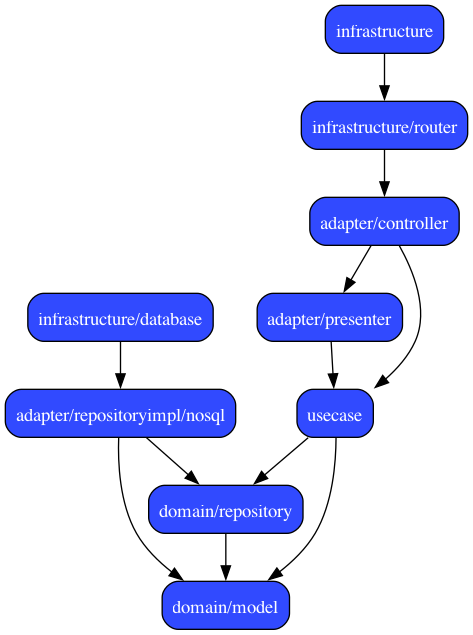
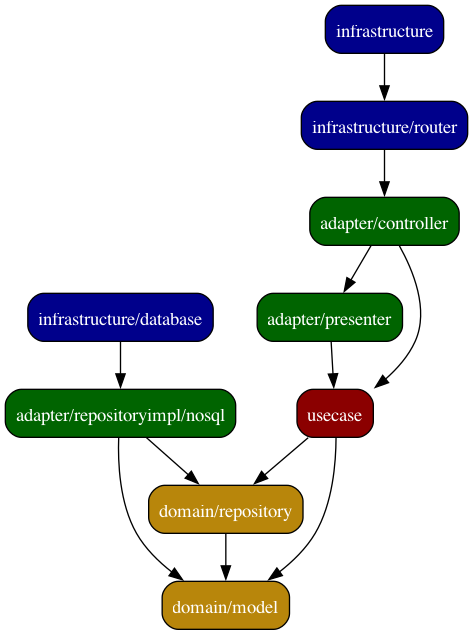
chore: 依存関係グラフがレイヤによって色分けされるように

diff --git a/scripts/color_dot_graph.py b/scripts/color_dot_graph.py
@@ -1,0 +1,58 @@
+import re
+import sys
+
+COLORS = [
+    # adapter
+    'darkgreen',
+    # domain
+    'darkgoldenrod',
+    # infrastructure
+    'darkblue',
+    # usecase
+    'darkred',
+    # others
+    'darkorange',
+    'mediumvioletred',
+    'dimgray',
+    'ind',
+    'darkcyan',
+    'black'
+]
+
+
+def color_nodes(graph: str) -> str:
+    color_line_map = {}
+    current_color = 0
+    results = []
+    for raw_line in graph.split('\n'):
+        line = raw_line.strip()
+        # ノードに関する行のみを処理
+        if line.startswith('"') and '->' not in line:
+            node_name = line.split(' ')[0].replace('"', '')
+            # ノードのprefixを取得
+            prefix = node_name.split('/')[0]
+            # prefixに対して色を割り当てる
+            if prefix not in color_line_map:
+                color = COLORS[current_color]
+                color_line_map[prefix] = color
+                current_color += 1
+            # すでに色が割り当てられている場合はそのまま追加
+            else:
+                color = color_line_map[prefix]
+            # 色を上書き
+            color_line = re.sub(
+                r'fillcolor="[0-9\.]+\s[0-9\.]+\s[0-9\.]+"',
+                f'fillcolor="{color}"',
+                raw_line
+            )
+            results.append(color_line)
+        # ノード以外の行はそのまま追加
+        else:
+            results.append(raw_line)
+    return '\n'.join(results)
+
+
+if __name__ == '__main__':
+    graph = sys.stdin.read()
+    colored_graph = color_nodes(graph)
+    print(colored_graph)
